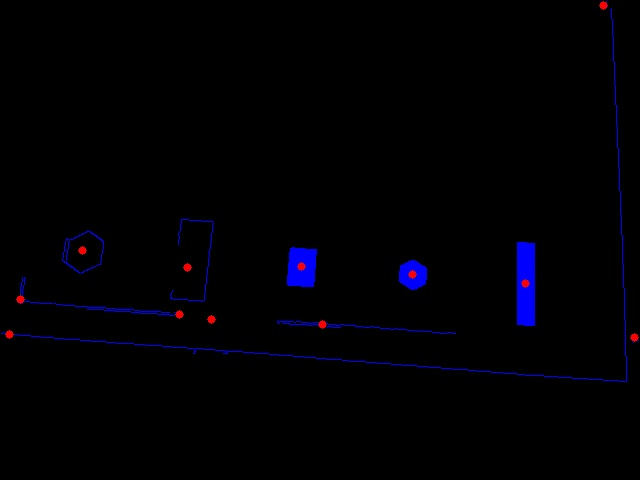
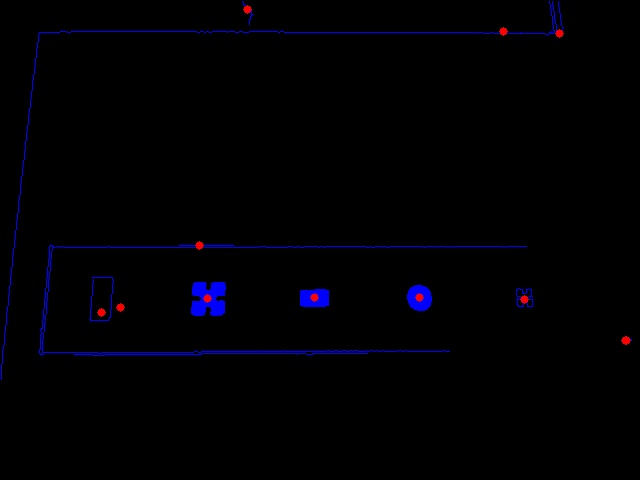
Nothing Much

Changed region(s): [[0.0, 0.4062, 1.0, 0.8125], [0.0312, 0.0, 0.9062, 0.4062], [0.9375, 0.0, 0.9688, 0.4062]]

diff --git a/src/objectRecognition.py b/src/objectRecognition.py
@@ -309,7 +309,7 @@ class ExtractTiles():
         # initialize the shape name and approximate the contour
         shape = "unidentified"
         peri = cv2.arcLength(c, True)
-        approx = cv2.approxPolyDP(c, 0.15 * peri, True)
+        approx = cv2.approxPolyDP(c, 0.01 * peri, True)
 
         # if the shape has 4 vertices, it is either a square or
         # a rectangle
@@ -460,6 +460,6 @@ class Find_objects():
         plt.show()
 
 if __name__ == "__main__":
-     im = cv2.imread('EvaluationData/frame0000.jpg')
+     im = cv2.imread('EvaluationData/02.jpg')
      tiles = ExtractTiles(im,show=True,save = True)
      a = Find_objects(tiles.tiles,show=True)
